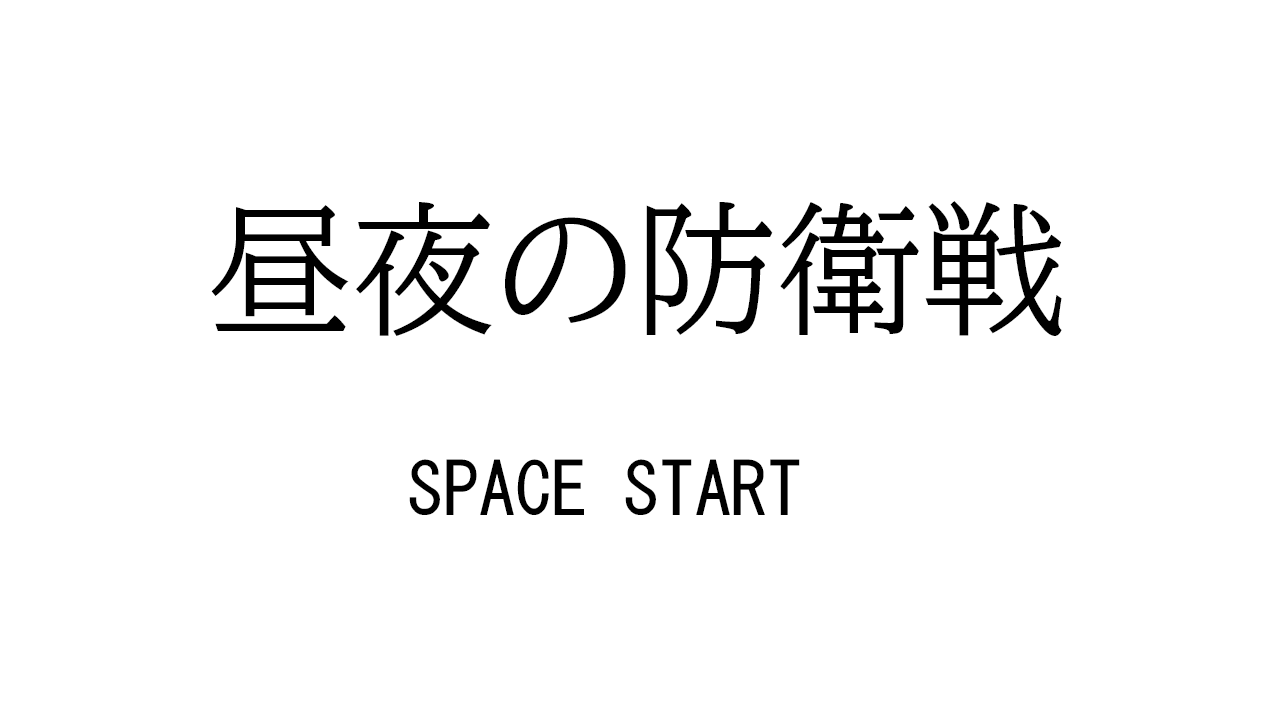
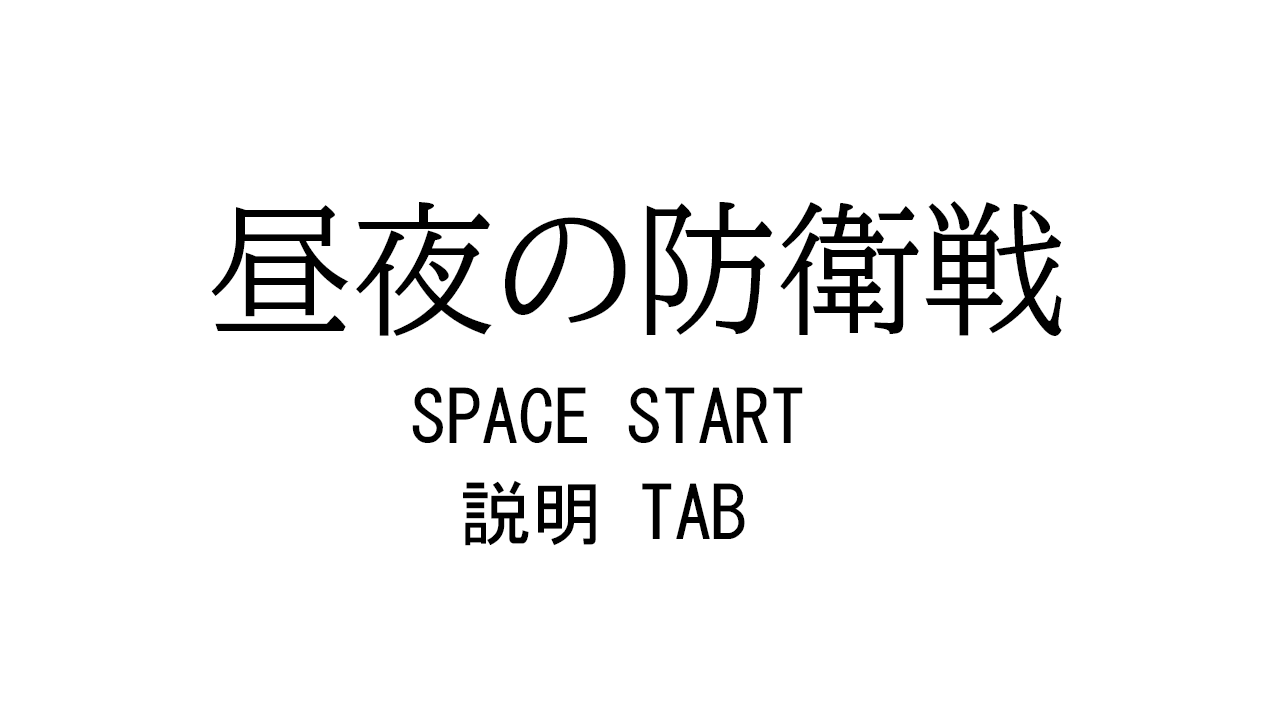
説明UI

Changed region(s): [[0.3125, 0.5194, 0.625, 0.7639]]

diff --git a/DirectXGame/TitleScene.cpp b/DirectXGame/TitleScene.cpp
@@ -22,6 +22,8 @@ void TitleScene::Initialize() {
 	backSprite = Sprite::Create(backTexture, { 0,0 });
 	titleTexture = TextureManager::Load("Title.png");
 	titleSprite = Sprite::Create(titleTexture, { 0,0 });
+	explanationTexture = TextureManager::Load("explanation.png");
+	explanationSprite = Sprite::Create(explanationTexture, { 0,0 });
 	//BGM
 	audio_ = Audio::GetInstance();
 	TitleSound_ = audio_->LoadWave("BGM/TaitleBGM.mp3");
@@ -33,11 +35,14 @@ void TitleScene::Initialize() {
 void TitleScene::Update() {
 	switch (phase_) {
 	case TitleScene::Phase::kFadeIn:
-		if (input_->TriggerKey(DIK_SPACE)) {
+		if (input_->TriggerKey(DIK_SPACE) && phase_ == Phase::kFadeIn) {
 			phase_ = Phase::kFadeOut;
 			fade_->Start(Fade::Status::FadeOut, 1.0f);
 			phase_ = Phase::kMain;
 			DecisionHandle_ = audio_->PlayWave(DecisionSound_, false);
+		}
+		if (input_->TriggerKey(DIK_TAB) && phase_ == Phase::kFadeIn) {
+			phase_ = Phase::kExplanation;
 		}
 		fade_->Update();
 		break;
@@ -50,6 +55,12 @@ void TitleScene::Update() {
 	case TitleScene::Phase::kFadeOut:
 		audio_->StopWave(TitleHandle_);
 		finished_ = true;
+		break;
+
+	case TitleScene::Phase::kExplanation:
+		if (input_->TriggerKey(DIK_TAB)) {
+			phase_ = Phase::kFadeIn;
+		}
 		break;
 	default:
 		break;
@@ -70,7 +81,12 @@ void TitleScene::Draw() {
 	/// </summary>
 	
 	backSprite->Draw();
-	titleSprite->Draw();
+	if (phase_ == Phase::kFadeIn) {
+		titleSprite->Draw();
+	}
+	if (phase_ == Phase::kExplanation) {
+		explanationSprite->Draw();
+	}
 	// スプライト処理後描画
 	KamataEngine::Sprite::PostDraw();
 	// 深度バッファクリア

diff --git a/DirectXGame/TitleScene.h b/DirectXGame/TitleScene.h
@@ -17,6 +17,7 @@ public:
 		kFadeIn,  // フェードイン
 		kMain,    // メイン部
 		kFadeOut, // フェードアウト
+		kExplanation, //説明
 	};
 
 	TitleScene();
@@ -44,6 +45,9 @@ private:
 	//タイトル
 	KamataEngine::Sprite* titleSprite = nullptr;
 	uint32_t titleTexture;
+	//説明
+	KamataEngine::Sprite* explanationSprite = nullptr;
+	uint32_t explanationTexture;
 
 	// 終了フラグ
 	bool finished_ = false;
@@ -60,4 +64,5 @@ private:
 	//決定音
 	uint32_t DecisionSound_ = 0;
 	uint32_t DecisionHandle_ = 0;
+
 };
